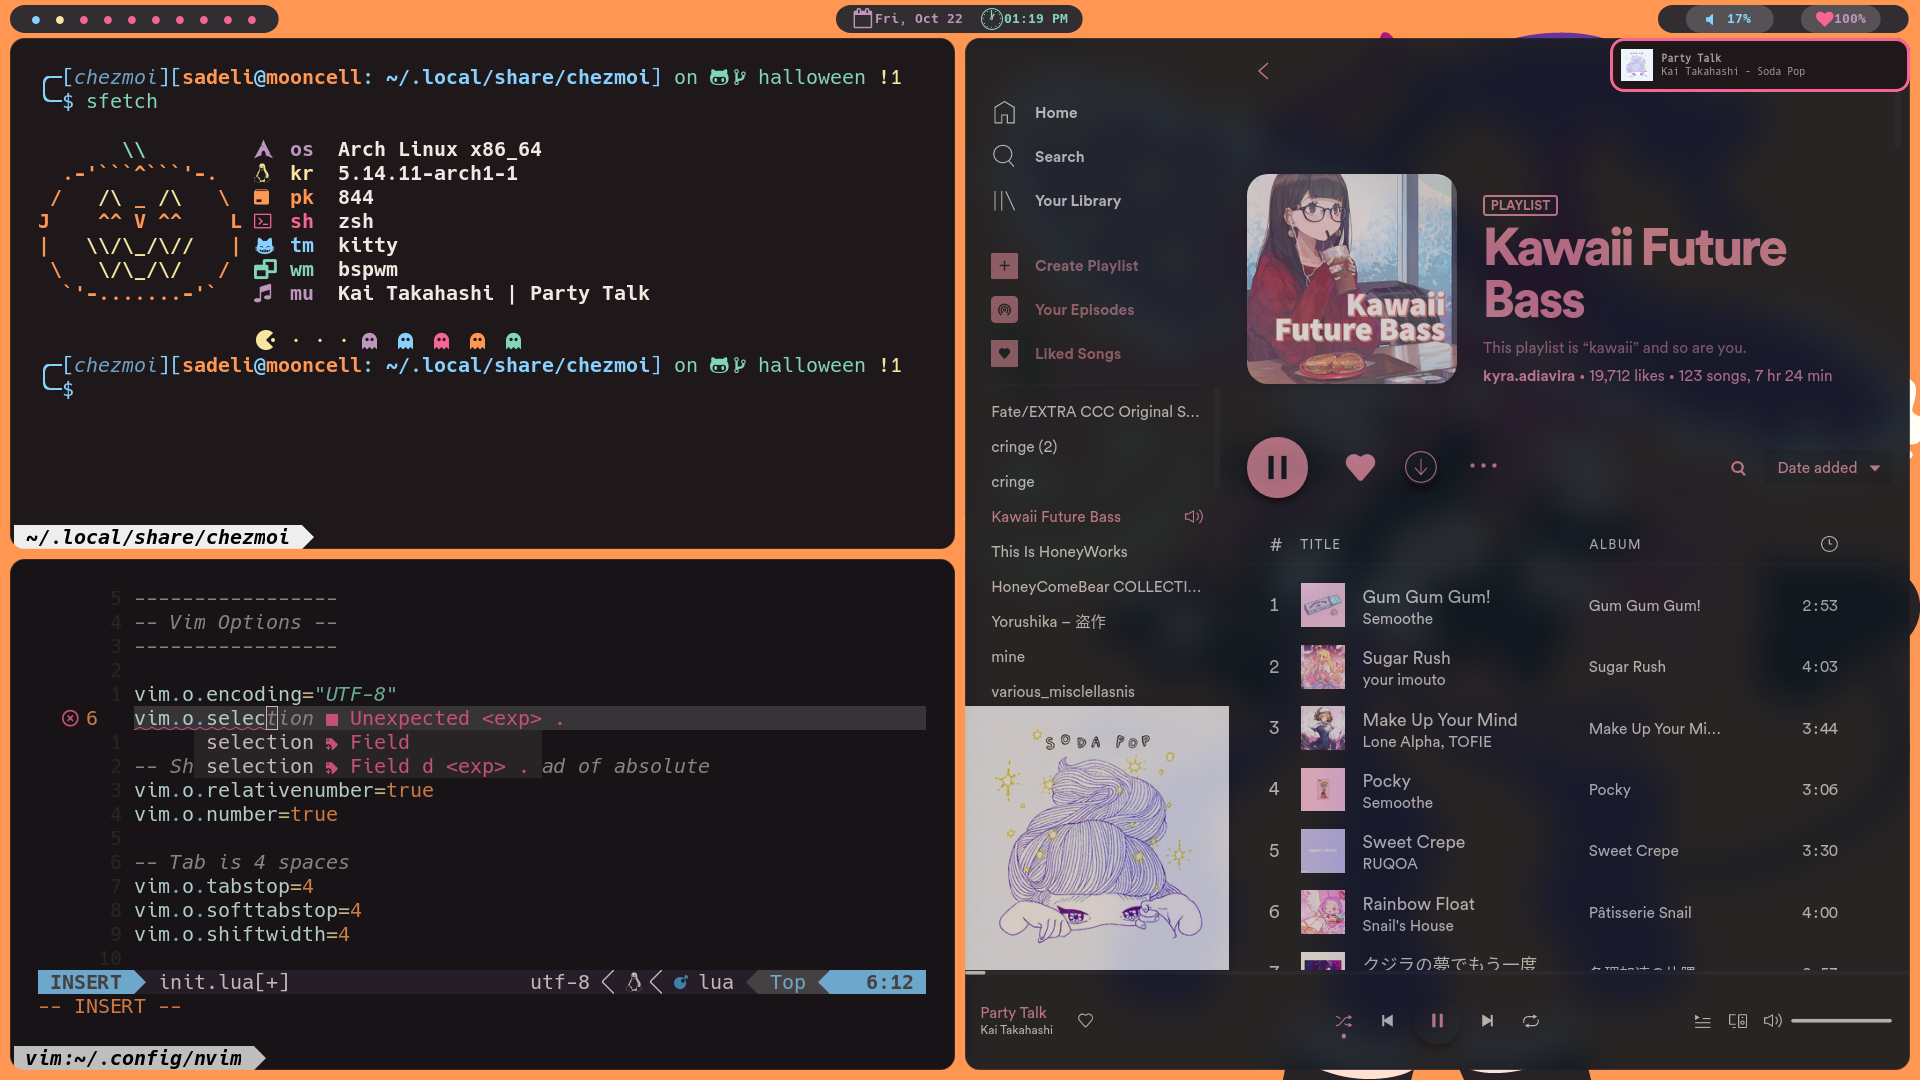
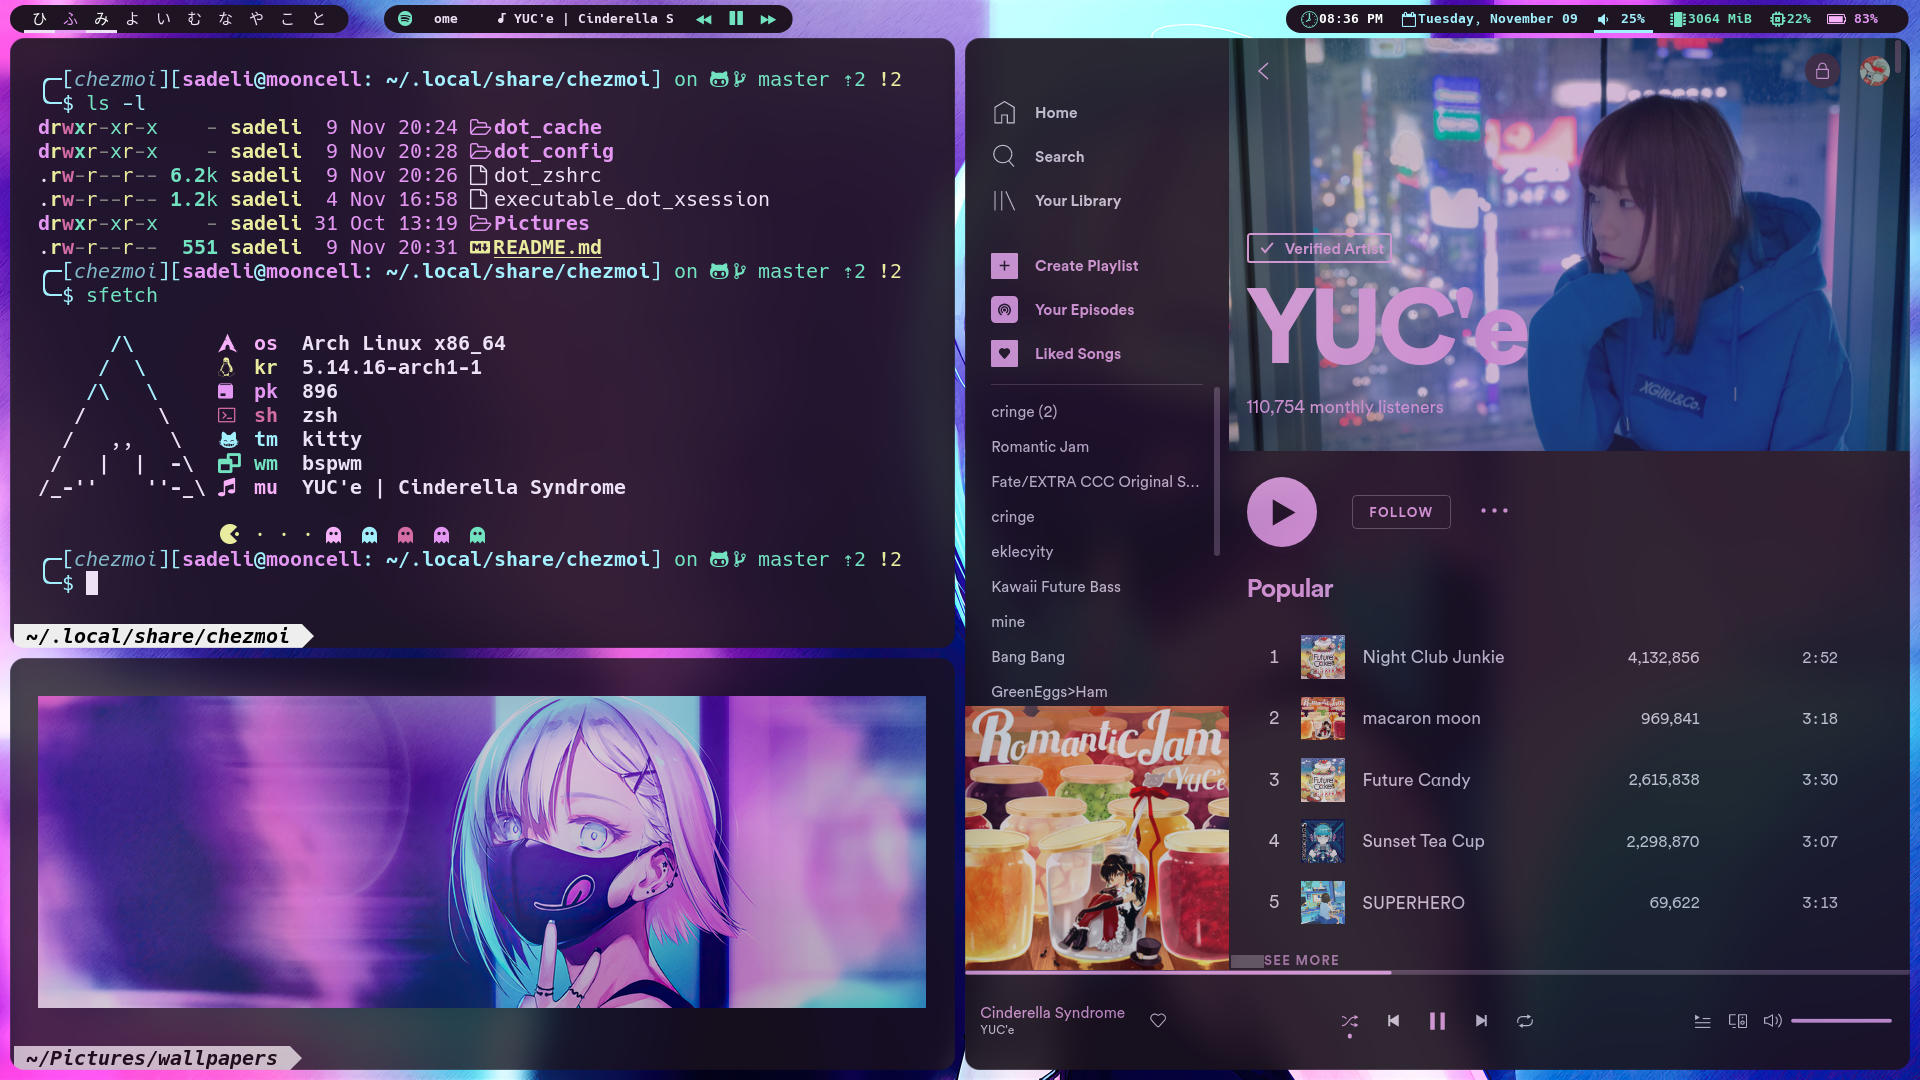
Update README

diff --git a/README.md b/README.md
@@ -3,8 +3,8 @@
 My dotfiles, rices, neovim configs, polybar configs, etc. Basically my archive. Dots are managed by chezmoi.
 
 *screenshot*\
-Wallpaper by matsumayu: https://www.deviantart.com/matsumayu/art/Elizabeth-Bathory-from-Fate-Grand-Order-724429170
-![halloween](rice.png)
+Wallpaper by Okeno Kamoku: https://www.pixiv.net/en/artworks/84073381
+![peace](rice.png)
 
 - **bar**: [polybar](https://github.com/polybar/polybar)
 - **launcher**: [rofi](https://github.com/adi1090x/rofi)
